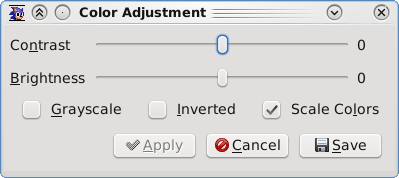
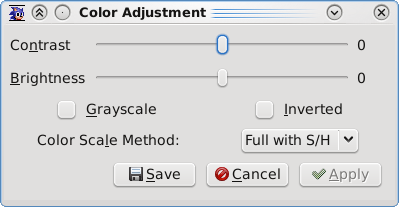
doc/manual/dialog-ca.html: Updated to reflect the new Color Scale Methods.

diff --git a/doc/manual/dialog-ca.html b/doc/manual/dialog-ca.html
@@ -81,25 +81,59 @@
 </table>
 
 <p>
-<span class='option'>Color Scaling</span>: Enables RGB Color Scaling. This
-option scales the maximum color components for each system to the maximum
-color output for the current color depth, resulting in a brighter image.
-For instance, an MD color value <span class='value'>0xEEE</span> would
-normally get converted to <span class='value'>#E0E0E0</span> with RGB Color
-Scaling disabled, but with RGB Color Scaling enabled, it gets converted to
-<span class='value'>#FFFFFF</span>. This is more accurate to how the original
-system works: an MD color value <span class='value'>0xEEE</span> tells the
-VDP to output full brightness on all three color channels.
+<span class='option'>Color Scaling Method</span>: Determines the color scaling
+method to be used.
+</p>
+
+<p>
+&quot;Raw&quot; color scaling simply shifts each color
+color component into their correct positions. For instance, an MD color value
+of <span class='value'>0xEEE</span> would be converted to <span class='value'>0xE0E0E0</span>.
+</p>
+
+<p>
+&quot;Full&quot; expands the palette such that maximum brightness on the MD
+(<span class='value'>0xEEE</span>) is converted ot maximum brightness for the
+current color depth (e.g. <span class='value'>0xFFFFFF</span> for 32-bit).
+</p>
+
+<p>
+&quot;Full with S/H&quot; takes the MD's Shadow and Highlight features into
+account when scaling colors. An MD color value of <span class='value'>0xEEE</span>
+would be converted to <span class='value'>0xEEEEEE</span> if both shadow and
+highlight are disabled; <span class='value'>0x777777</span> if shadow is enabled;
+and <span class='value'>0xFFFFFF</span> if highlight is enabled. This is
+probably the most accurate scaling method available in Gens/GS.
+</p>
+
+<p>
+<span class='note'>NOTE:</span> If any scaling methods (other than &quot;Raw&quot;)
+are enabled, then you must use 32-bit color in order to get accurate screenshots
+in Gens/GS r7 due to the way the screenshot function is written. This may be fixed
+in a future version.
 </p>
 
 <table align='center'>
 	<tr>
-		<th>Original</th>
-		<th>RGB Color Scaling</th>
+		<th>
+			Raw<br>
+			<span class='value'>0xEEE</span> → <span class='value'>0xE0E0E0</span>
+		</th>
+		<th>
+			Full<br>
+			<span class='value'>0xEEE</span> → <span class='value'>0xFFFFFF</span>
+		</th>
+		<th>
+			Full with S/H<br>
+			[normal] <span class='value'>0xEEE</span> → <span class='value'>0xEEEEEE</span><br>
+			[shadow] <span class='value'>0xEEE</span> → <span class='value'>0x777777</span><br>
+			[highlight] <span class='value'>0xEEE</span> → <span class='value'>0xFFFFFF</span><br>
+		</th>
 	</th>
 	<tr>
-		<td><img src="images/dialog-ca/ca-noscale.png" width="320" height="224"></td>
-		<td><img src="images/dialog-ca/ca-original.png" width="320" height="224"></td>
+		<td><img src="images/dialog-ca/ca-scale-raw.png" width="320" height="224"></td>
+		<td><img src="images/dialog-ca/ca-scale-full.png" width="320" height="224"></td>
+		<td><img src="images/dialog-ca/ca-scale-full-sh.png" width="320" height="224"></td>
 	</tr>
 </table>
 

diff --git a/doc/manual/gens.css b/doc/manual/gens.css
@@ -76,3 +76,8 @@ pre.code
 	background-color: silver;
 	font-family: monospace;
 }
+
+.note
+{
+	font-weight: bold;
+}
